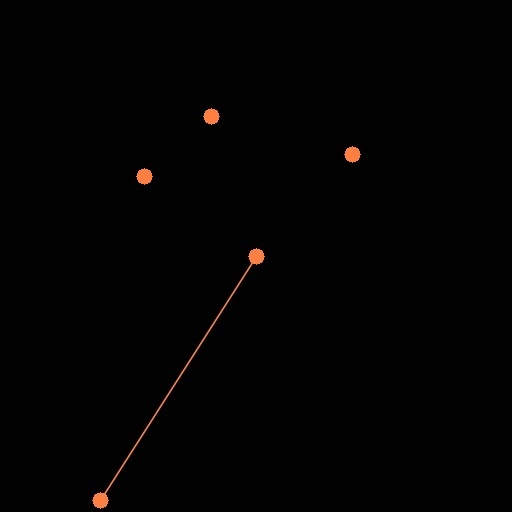
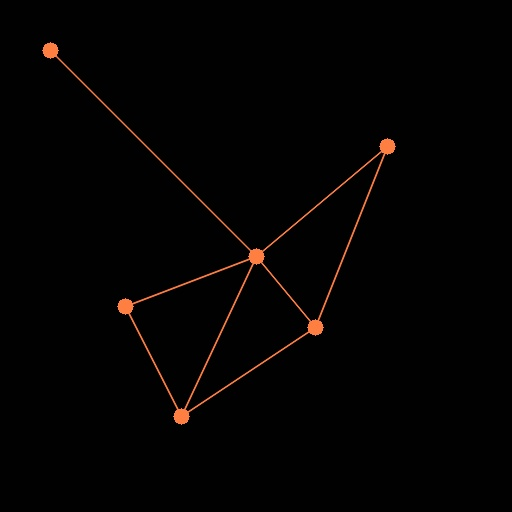
added function to connect nodes by mouse

diff --git a/graph/graph.py b/graph/graph.py
@@ -114,51 +114,34 @@ class Graph:
         cv2.destroyAllWindows()
 
     def make_connections(self):
-        def click_first(event, x, y, flags, param):
+        nd = None
+        def click_event(event, x, y, flags, param):
             if event == cv2.EVENT_LBUTTONDOWN:
-                print("Looking for node")
+                global nd
                 nd = self.nearest_node(x, y)
-                self.printnode(nd)
+            elif event == cv2.EVENT_LBUTTONUP:
                 if nd is not None:
-                    return nd
-
-        def click_second(event, x, y, flags, param):
-            if event == cv2.EVENT_LBUTTONDOWN:
-                nd = self.nearest_node(x, y)
-                if nd is not None:
-                    nd2 = param[0]
-                    self.connect(nd, nd2)
+                    ndcur = self.nearest_node(x, y)
+                    self.connect(nd, ndcur)
                     cv2.line(img, (nd.coordinates[0], nd.coordinates[1]),
-                                   (nd2.coordinates[0], nd2.coordinates[1]), (66, 126, 255), 1, cv2.LINE_AA)
+                             (ndcur.coordinates[0], ndcur.coordinates[1]), (66, 126, 255), 1, cv2.LINE_AA)
                     cv2.imshow('Make connections', img)
-                    return True
-                else:
-                    return False
 
         img = cv2.imread('nodegraph.jpg')
         if img.size == 0:
             img = np.ones([512, 512, 3], np.uint8)
         cv2.imshow('Make connections', img)
 
-        pairs_complete = True
-        last_node = None
+        cv2.setMouseCallback('Make connections', click_event)
 
-        while cv2.waitKey(0) is None:
-            if pairs_complete is True:
-                last_node = cv2.setMouseCallback('Make connections', click_first)
-                if last_node is not None:
-                    pairs_complete = False
-
-            else:
-                pairs_complete = cv2.setMouseCallback('Make connections', click_second, last_node)
-
+        cv2.waitKey(0)
         cv2.imwrite('nodegraph.jpg', img)
         cv2.destroyAllWindows()
 
 
 graph = Graph()
 graph.create_node('entrance', 256, 256, 0, [1])
-graph.create_node('lift-grd', 100, 500, 0, [0])
+graph.create_node('lift-grd', 50, 50, 0, [0])
 graph.print_graph()
 graph.mark_nodes()
 graph.make_connections()
